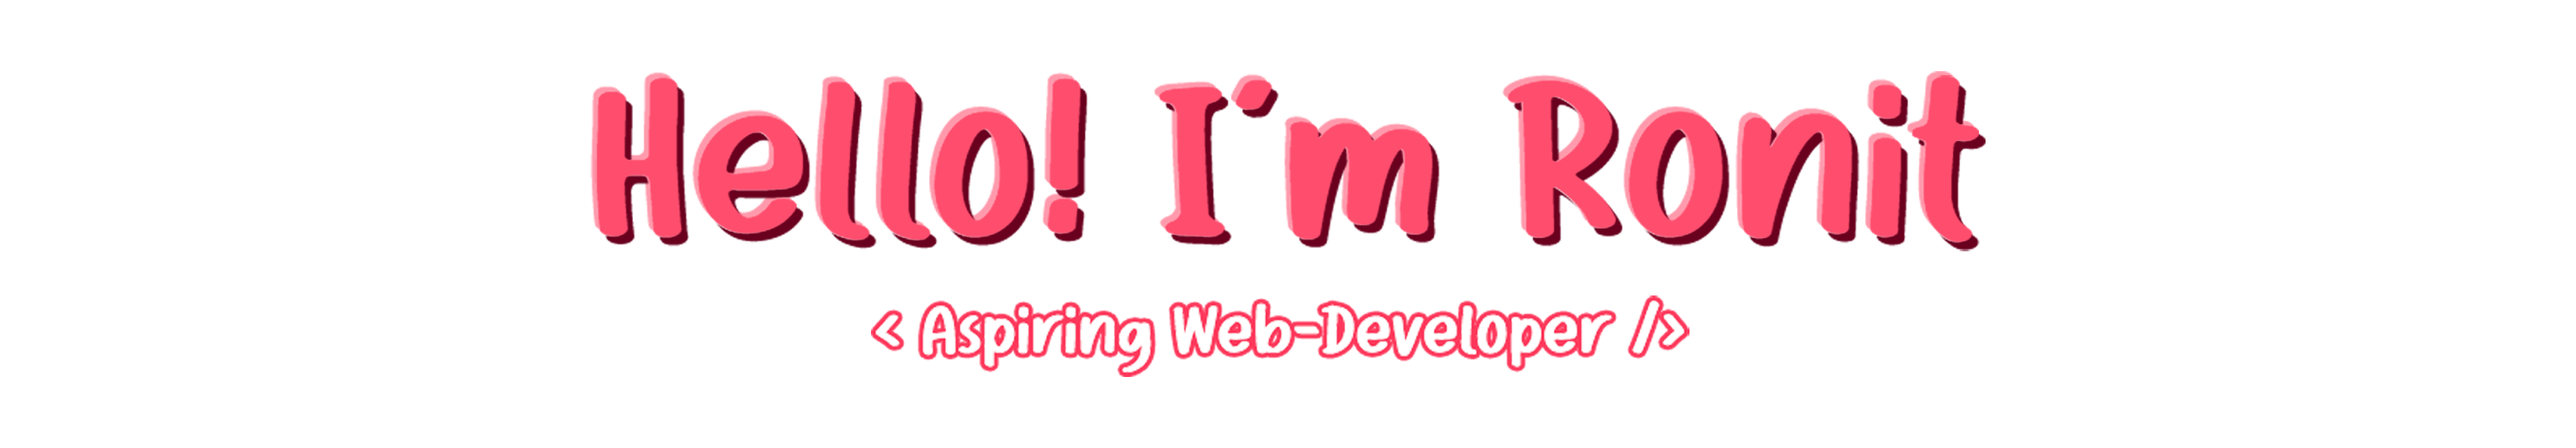
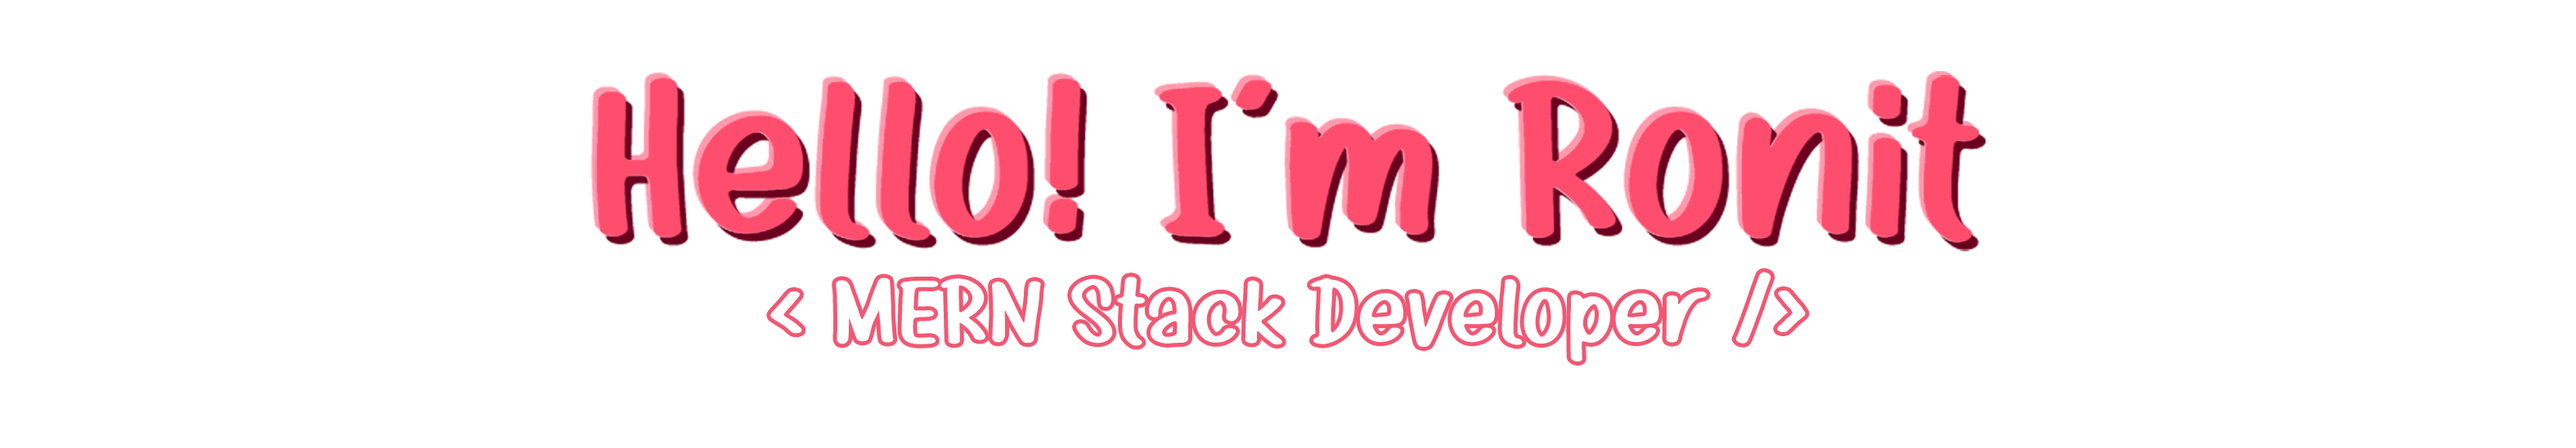
Readme Updated

Changed region(s): [[0.28, 0.6193, 0.7156, 0.8361]]

diff --git a/README.md b/README.md
@@ -19,9 +19,9 @@
 ## Tech Stack
 
 <a href="https://skillicons.dev">
-    <img src="https://skillicons.dev/icons?i=js,react,tailwind" />
+    <img src="https://skillicons.dev/icons?i=js,nodejs,express,react,tailwind,mongo" />
   </a>
 
 ## Contact
 
-If you have any feedback, please reach out to us at work.ronitghosh@gmail.com
+If you have any feedback, please reach out to me at work.ronitghosh@gmail.com
